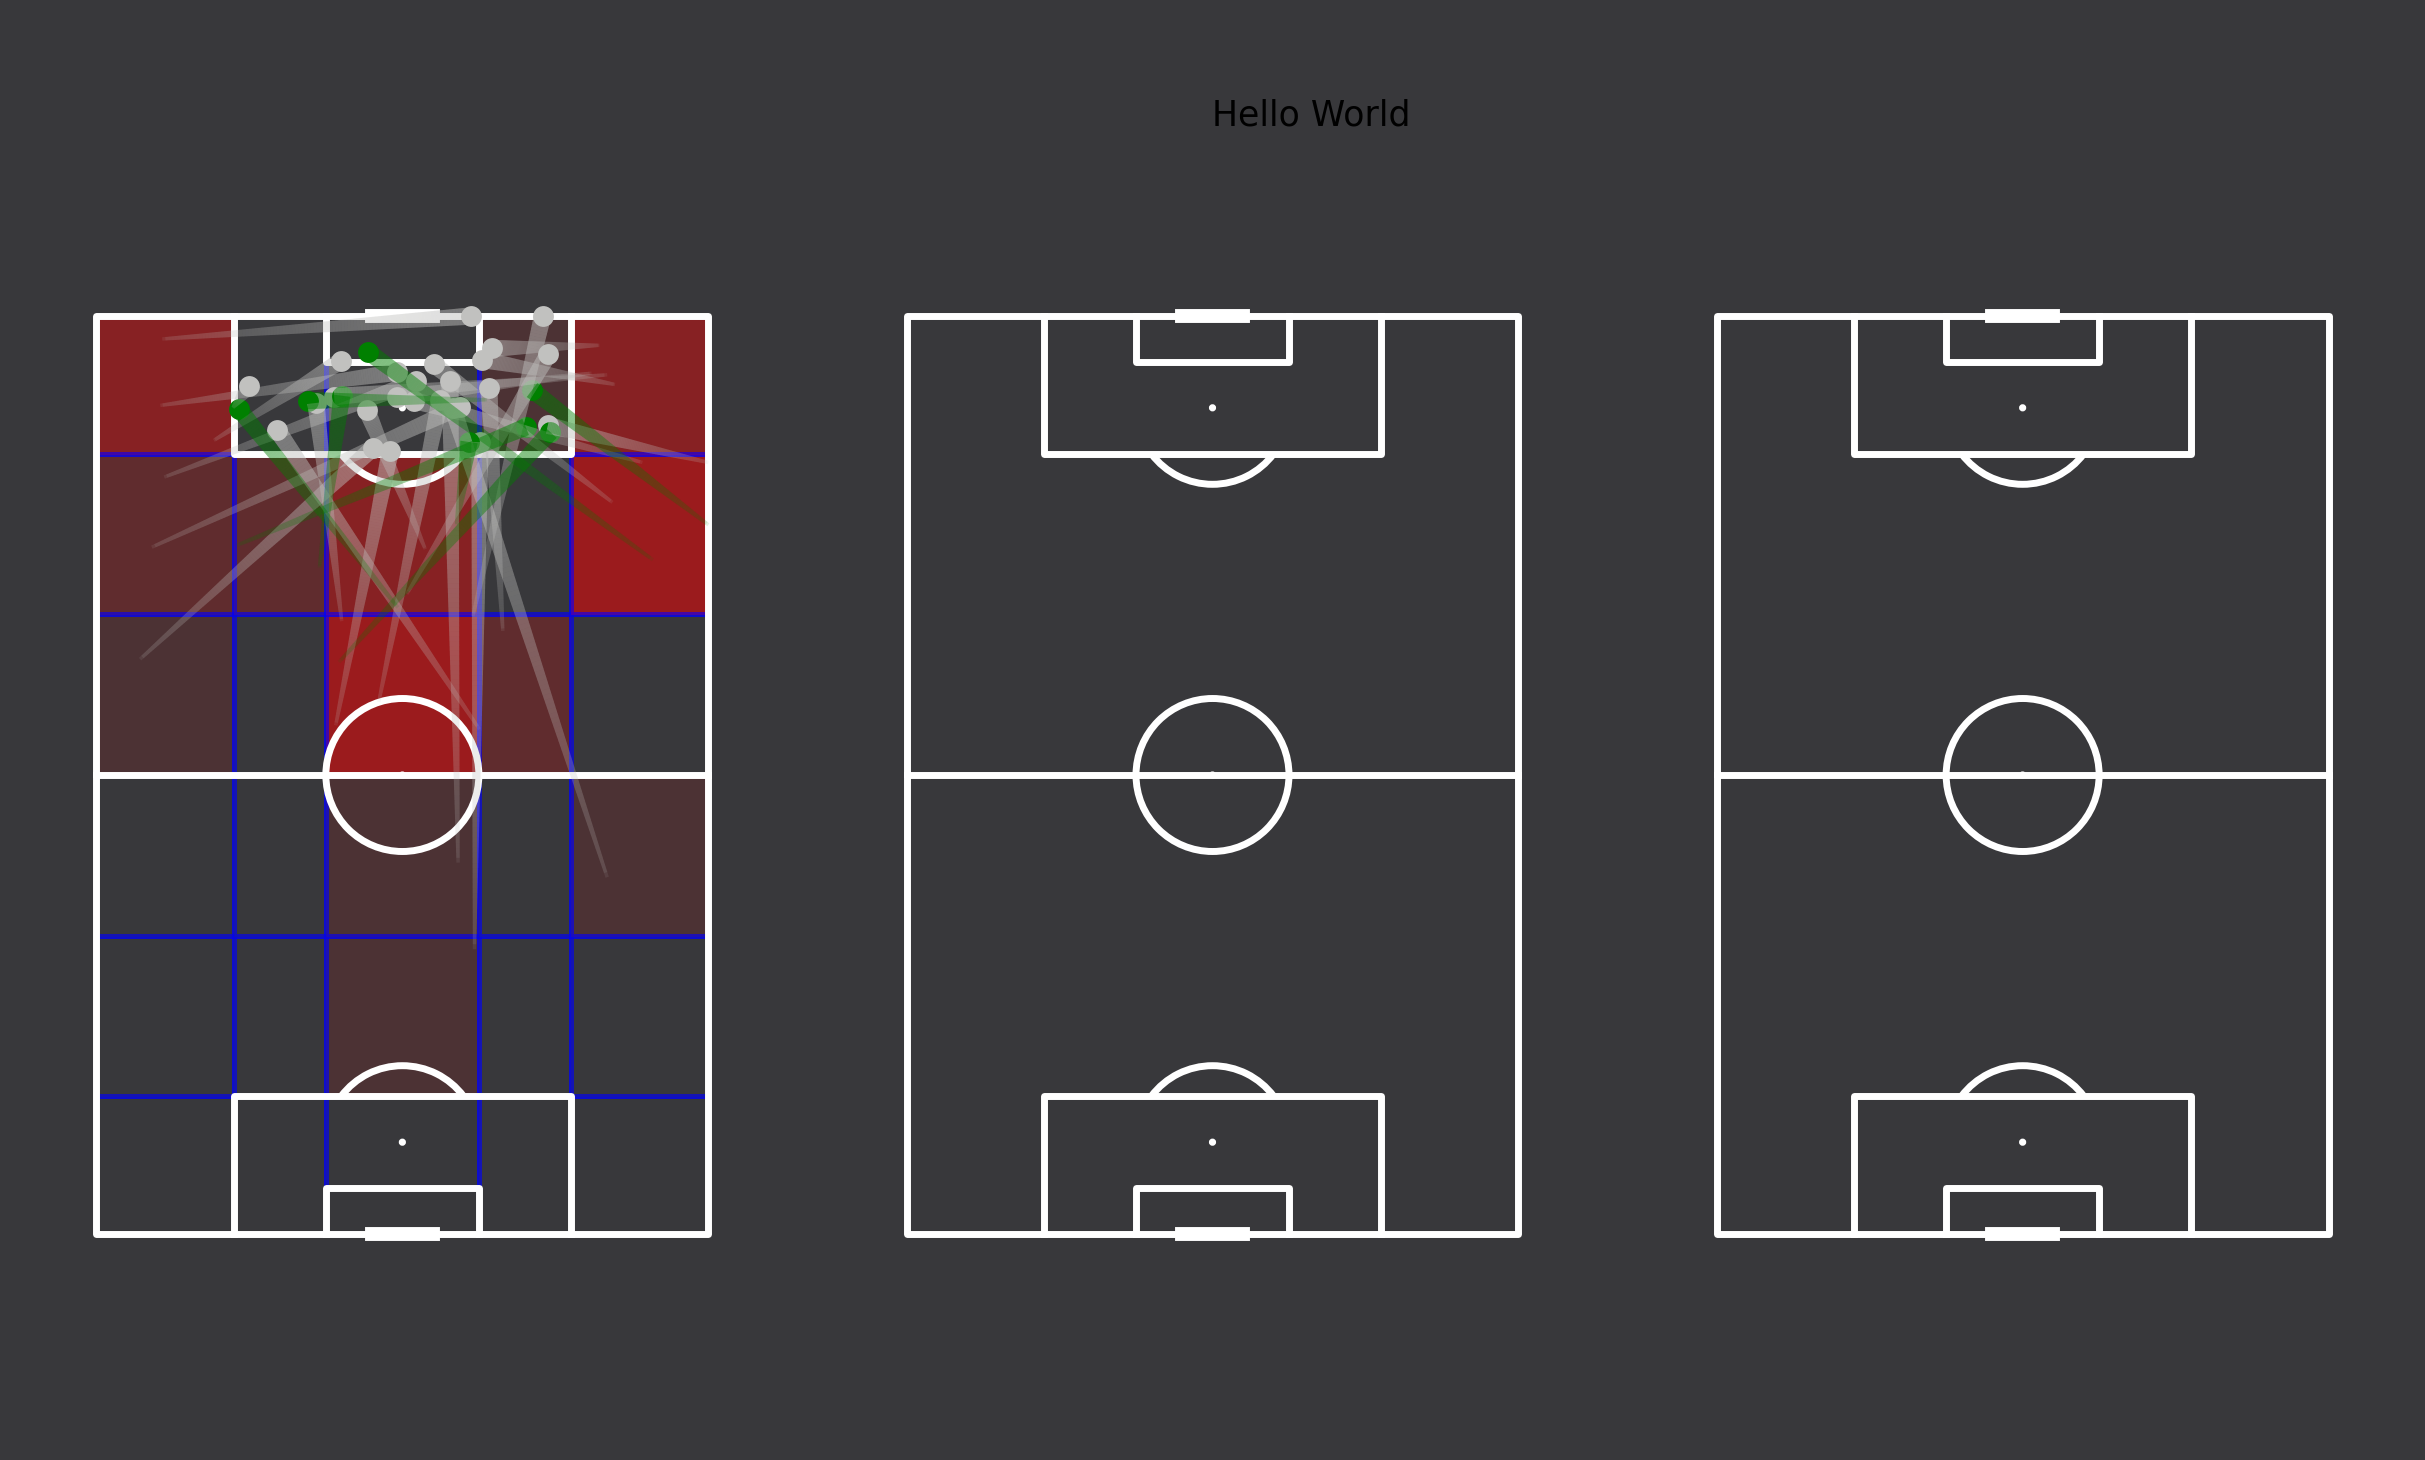
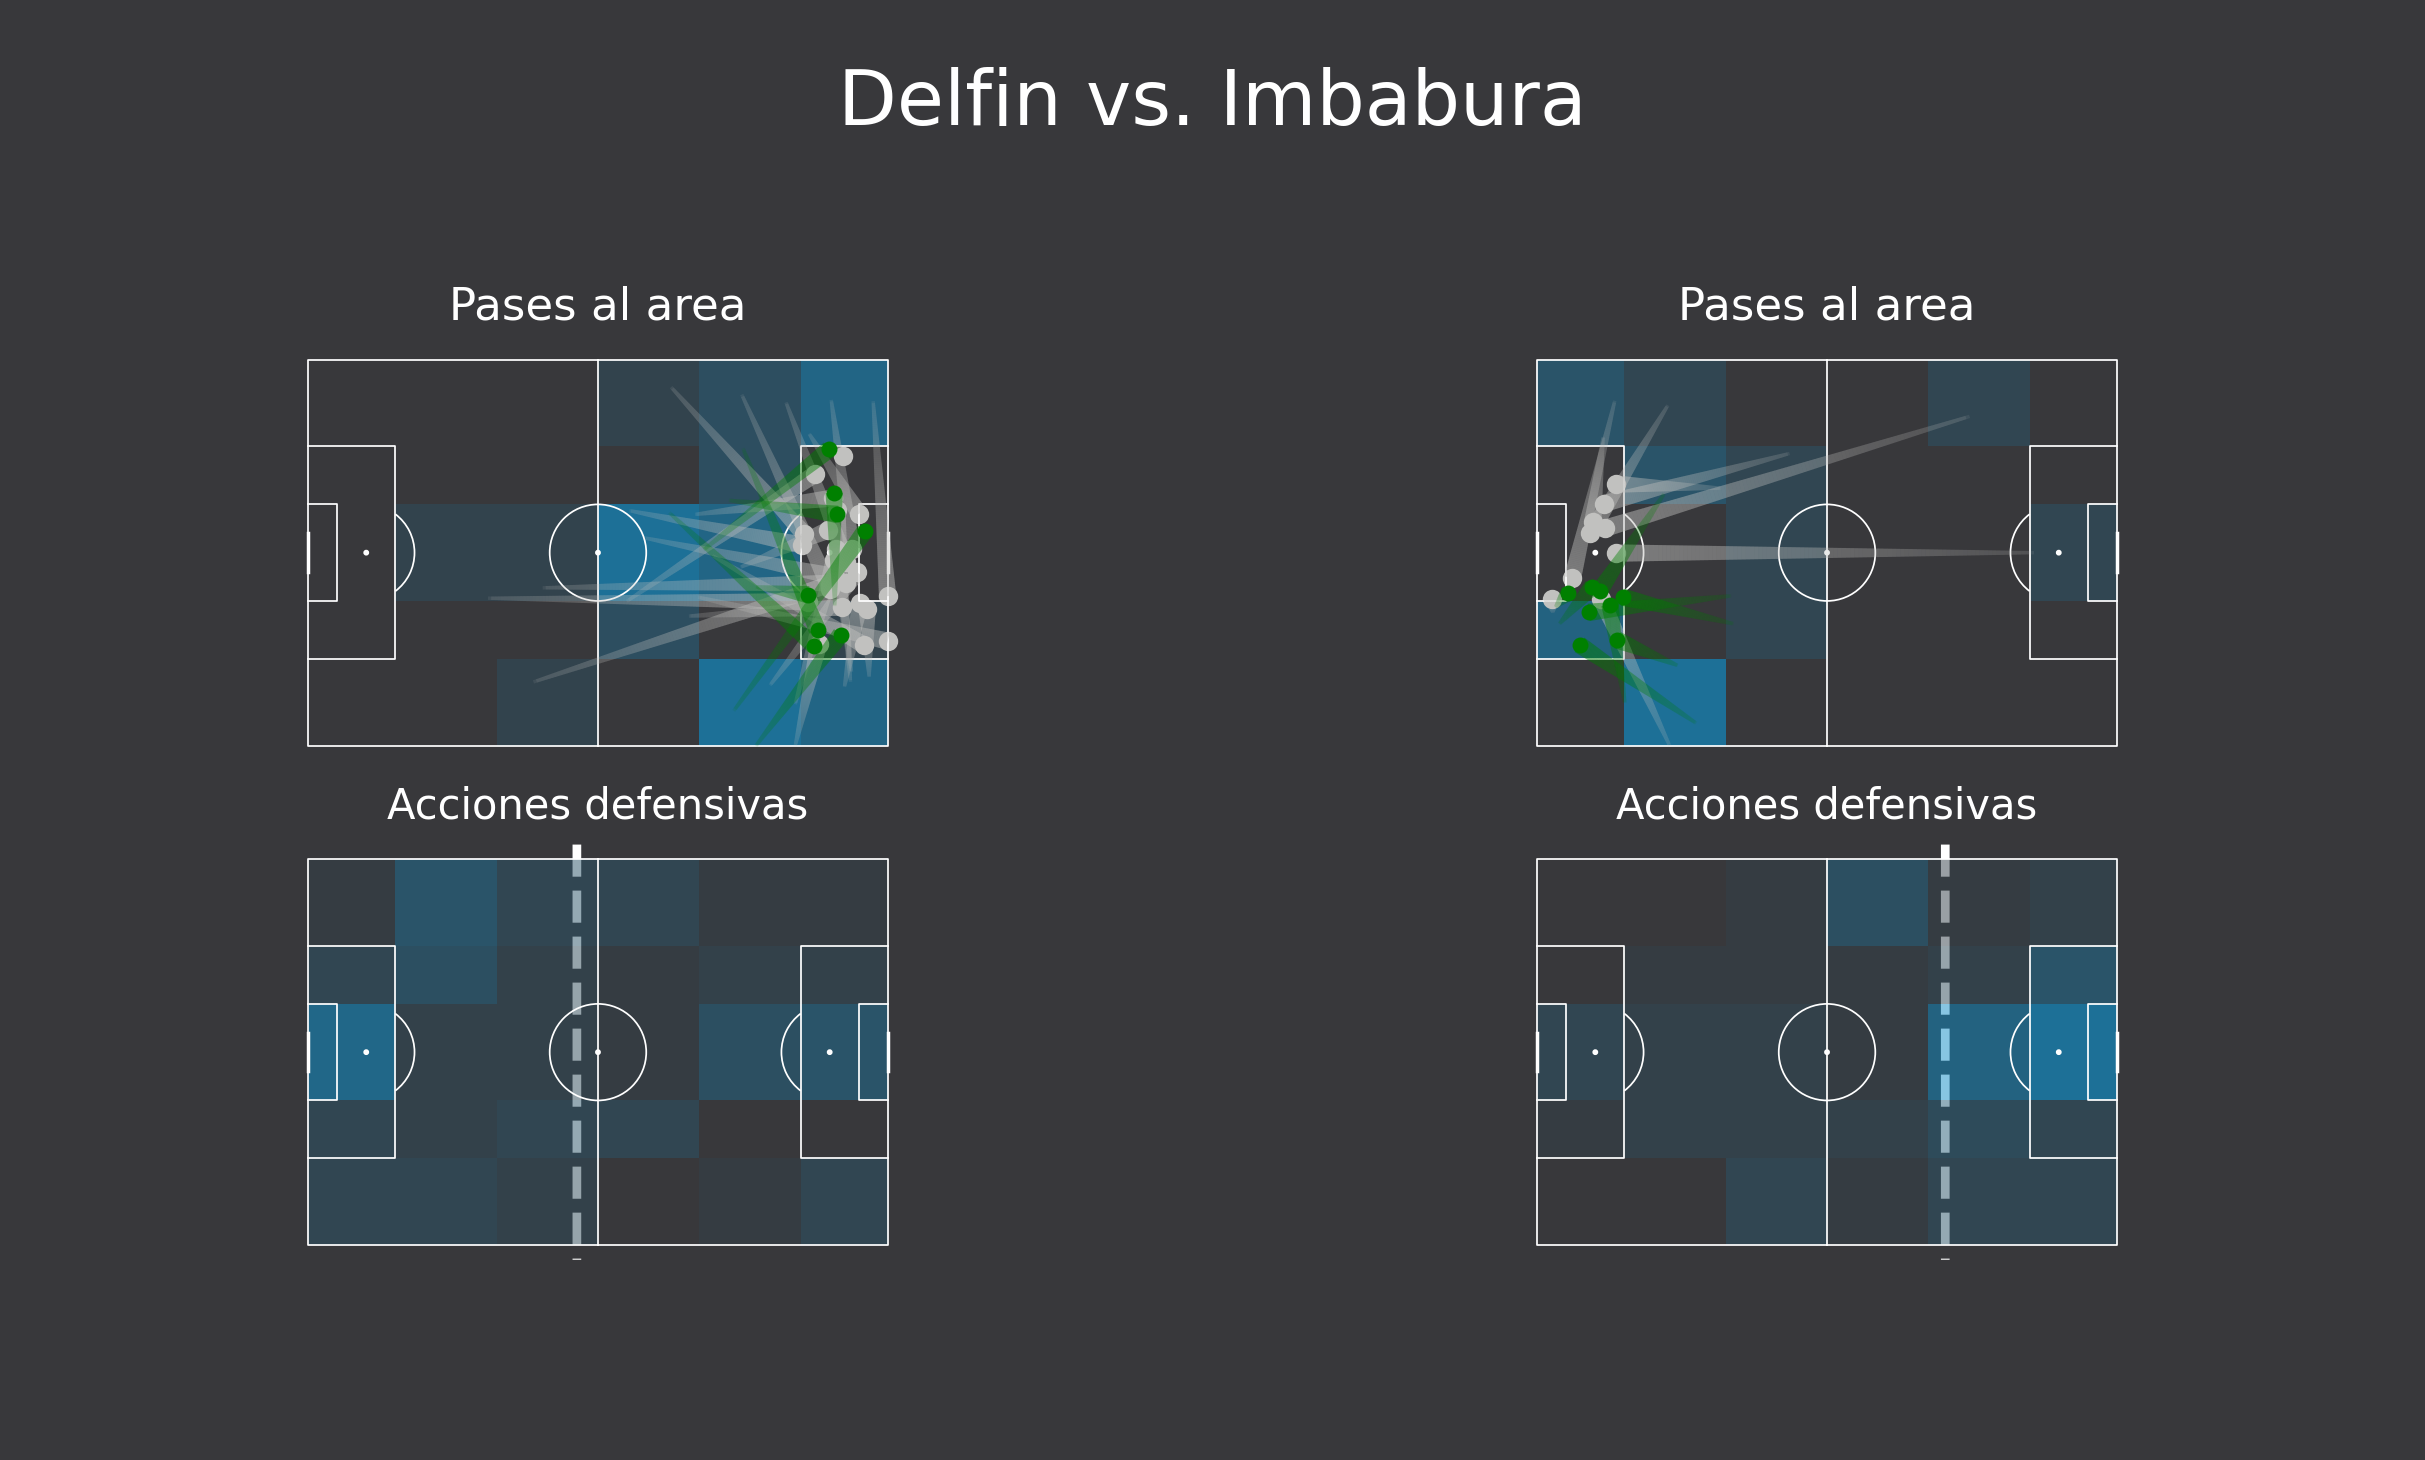
added defensive actions heatmap, reordered pitches and edited visuals

diff --git a/20240501_LigaProMatchDashboard/match_report.py b/20240501_LigaProMatchDashboard/match_report.py
@@ -6,6 +6,7 @@ from mplsoccer import Pitch, VerticalPitch, Standardizer
 
 import matplotlib.pyplot as plt
 from matplotlib.colors import LinearSegmentedColormap
+from matplotlib import rcParams
 
 
 
@@ -123,10 +124,16 @@ def filter_passes_to_box(df: pd.DataFrame, team: str):
     return pdf
     
 
-def add_box_passes(pitch, ax, df):
+def add_box_passes(pitch: Pitch, ax: plt.axis, df, flip):
   
     standard = Standardizer(pitch_from='opta', pitch_to='statsbomb')
-
+    ax.set_title("Pases al area",
+                 c="white",
+                 fontsize=13
+                 )
+    
+    size = rcParams['lines.markersize'] ** 1.7
+    
     ### FAILED PASSES
     color = '#c1c1bf'
     failed = df['outcome'] == 0
@@ -134,6 +141,10 @@ def add_box_passes(pitch, ax, df):
     x, y = standard.transform(df['x'][failed], df['y'][failed])
     xend, yend = standard.transform(df["Pass End X"][failed], df["Pass End Y"][failed])
 
+    if flip:
+        x, y = pitch.flip_side(x, y, [True]*len(x))
+        xend, yend = pitch.flip_side(xend, yend, [True]*len(xend))
+    
     ev1 = pitch.lines(
         xstart=x,
         ystart=y,
@@ -145,9 +156,12 @@ def add_box_passes(pitch, ax, df):
         ax=ax,
         alpha_start=0.1,
         alpha_end=0.3,
+        zorder=1
                 )
-
-    ev2 = pitch.scatter(x=xend, y=yend, ax=ax,linewidth=0, color='#c1c1bf')
+    
+    ev2 = pitch.scatter(x=xend, y=yend,
+                        s=size,
+                        ax=ax,linewidth=1, color='#c1c1bf', zorder=0)
 
     ### SUCCESSFULL PASSES
     color = "green"
@@ -156,6 +170,10 @@ def add_box_passes(pitch, ax, df):
     x, y = standard.transform(df['x'][success], df['y'][success])
     xend, yend = standard.transform(df["Pass End X"][success], df["Pass End Y"][success])
 
+    if flip:
+        x, y = pitch.flip_side(x, y, [True]*len(x))
+        xend, yend = pitch.flip_side(xend, yend, [True]*len(xend))
+    
     ev1 = pitch.lines(
         xstart=x,
         ystart=y,
@@ -167,12 +185,16 @@ def add_box_passes(pitch, ax, df):
         ax=ax,
         alpha_start=0.1,
         alpha_end=0.3,
+        zorder=2
                 )
 
-    ev2 = pitch.scatter(x=xend, y=yend, ax=ax,linewidth=0, color=color)
+    ev2 = pitch.scatter(x=xend, y=yend,
+                        s=size,
+                        zorder=2,
+                        ax=ax,linewidth=0, color=color)
 
 
-def add_box_heatmap(pitch, ax, df):
+def add_box_heatmap(pitch, ax, df, flip):
 
     standard = Standardizer(pitch_from='opta', pitch_to='statsbomb')
 
@@ -196,6 +218,9 @@ def add_box_heatmap(pitch, ax, df):
 
     # Transform values
     xstart, ystart = standard.transform(df['x'], df['y'])
+    
+    if flip:
+        xstart, ystart = pitch.flip_side(xstart, ystart, [True]*len(xstart))
 
     # Count passes per zone
     bin_statistic = pitch.bin_statistic(xstart, ystart,
@@ -207,7 +232,7 @@ def add_box_heatmap(pitch, ax, df):
     # clist = custom_cmap(event1_marker_color1)
     # Original hand-picked colors
     clist = ['#FFF1DB', '#FFE9CE', '#de9314', '#99610F']
-    clist = ["#38383b", "red"]
+    clist = [bg_color, "#03A9F4"]
 
     # Custom color map
     ccmap = LinearSegmentedColormap.from_list("custom", clist)
@@ -218,13 +243,131 @@ def add_box_heatmap(pitch, ax, df):
                     ax=ax,
                     cmap=ccmap,
                     # edgecolor='#03191E',
-                    edgecolor='blue',
+                    # edgecolor='blue',
                     alpha=0.5,
                     zorder=0,
                     linestyle=(0, (5,10))
                         )
 
 
+def add_def_actions(df, pitch: Pitch, axs: list, c: str):
+    """_summary_
+
+    Args:
+        df (_type_): _description_
+        pitch (_type_): _description_
+        axs (list): _description_
+    """
+    
+    standard = Standardizer(pitch_from="opta", pitch_to="statsbomb")
+
+    # BINS FOR HEATMAP
+    bin_x = np.sort(np.array([pitch.dim.left,
+                                pitch.dim.penalty_area_left,
+                                pitch.dim.penalty_area_left + 21,
+                                pitch.dim.length/2,
+                                pitch.dim.length/2 + 21,
+                                pitch.dim.penalty_area_right,
+                                pitch.dim.right
+                                ]))
+
+    bin_y = np.sort(np.array([pitch.dim.bottom,
+                                pitch.dim.penalty_area_bottom,
+                                pitch.dim.six_yard_bottom,
+                                pitch.dim.six_yard_top,
+                                pitch.dim.penalty_area_top,
+                                pitch.dim.top
+                                ]))
+    max = 0
+    
+    stat = [
+        "Interception"
+        "Ball recovery",
+        "Clearance",
+        "Foul",
+        "Aerial",
+        "Tackle",
+        "Challenge",
+        "Offside provoked"
+        ]
+    
+    for i, team in enumerate(df.team.unique()):
+        ax = axs[i]
+        ax.set_title(
+            label="Acciones defensivas",
+            c="white"
+                     )
+        
+        #Data
+        pdf = df[df["team"] == team]
+        pdf = pdf[pdf["event"] == "Clearance"]
+        
+        # Transform values
+        x, y = standard.transform(pdf.x, pdf.y)
+
+        # Get max events per zone
+        new_max = pitch.bin_statistic(x, y, statistic='count', bins=(bin_x, bin_y))["statistic"].max()
+        max = new_max if new_max > max else max
+    
+    # Loop for drawing on pitch
+    for i, team in enumerate(df.team.unique()):
+        flip = False if i==0 else True
+        ax = axs[i]
+        #Data
+        pdf = df[df["team"] == team]
+        pdf = pdf[pdf["event"].isin(stat)]
+        # Transform values
+        x, y = standard.transform(pdf['x'], pdf['y'])
+        
+        if flip:
+            x, y = pitch.flip_side(x, y, [True] * len(x))
+
+        # Count events per zone
+        bin_statistic = pitch.bin_statistic(x, y,
+                                                statistic='count',
+                                                bins=(bin_x, bin_y)
+                                                )
+        
+        clist = [bg_color,  "#03A9F4"]
+        # Custom color map
+        ccmap = LinearSegmentedColormap.from_list("custom", clist)
+
+        # Plot heatmap
+
+        pitch.heatmap(bin_statistic,
+                        ax=ax,
+                        cmap=ccmap,
+                        # edgecolor='#03191E',
+                        alpha=0.5,
+                        zorder=0,
+                        # linestyle=(0, (5,10)),
+                        vmax=max,
+                        shading="auto"
+                            )
+    
+        # Add average defensive action line
+        pdf = df[df["team"] == team]
+        pdf = pdf[pdf["event"].isin(stat)]
+        
+        x, y = standard.transform(pdf.x, pdf.y)
+        if i > 0:
+            x, y = pitch.flip_side(x, y, [True]*len(x))
+
+        d = np.sqrt(np.power(x - 0, 2) + np.power(y - 40, 2)).mean()
+
+        pitch.lines(
+            xstart=d,
+            ystart=-3,
+            xend=d,
+            yend=83,
+            ax=ax,
+            color='white',
+            linestyles='dashed',
+            alpha=1,
+            linewidth=2.5,
+            clip_on=False,
+            zorder=-1,
+        )
 
 if __name__ == "__main__":
     
@@ -236,7 +379,7 @@ if __name__ == "__main__":
     df = read_data(fp, get_qualifiers())
     
     # Draw the pitch
-    pitch = VerticalPitch(line_color='white')
+    pitch = Pitch(line_color='white', linewidth=0.5)
     
     # Show the plot
     fig = plt.figure(layout='constrained', figsize=(9.5, 4))
@@ -247,27 +390,44 @@ if __name__ == "__main__":
     ax_annotate = fig.add_axes([0, -0.16, 1, 0.125], anchor='NW', zorder=1)
     ax_annotate.axis('off')
 
-    subfigs = fig.subfigures(1, 3, wspace=0.07, width_ratios=[1, 1, 1])
+    subfigs = fig.subfigures(1, 2, wspace=0.07, width_ratios=[1, 1])
 
-    axsLeft = subfigs[0].subplots(1, 1)
-    axsMiddle = subfigs[1].subplots(1, 1)
-    axsRight = subfigs[2].subplots(1, 1)
+    ax1, ax3 = subfigs[0].subplots(2, 1) #1st team are odd axes
+    ax2, ax4 = subfigs[1].subplots(2, 1) #2nd team are even axes
     
-    ax_title.text(x=0.5, y=0.5, s="Hello World")
+    axs = {df.team.unique()[0]: [ax1, ax3],
+           df.team.unique()[1]: [ax2, ax4]}
     
-    pitch.draw(ax=axsLeft)
-    pitch.draw(ax=axsMiddle)
-    pitch.draw(ax=axsRight)
+    teams = df.team.unique()
+    ax_title.text(x=0.5, y=0.5,
+                  s=f"{teams[0]} vs. {teams[1]}",
+                  c="white",
+                  ha="center",
+                  fontsize=22
+                  )
+    
+    # Draw pitches on all the empty axes
+    pitch.draw(ax=ax1)
+    pitch.draw(ax=ax2)
+    pitch.draw(ax=ax3)
+    pitch.draw(ax=ax4)
 
-    axsLeft.set_facecolor(bg_color)
-    axsMiddle.set_facecolor(bg_color)
-    axsRight.set_facecolor(bg_color)
+    # Change axes background color
+    ax1.set_facecolor(bg_color)
+    ax2.set_facecolor(bg_color)
+    ax3.set_facecolor(bg_color)
+    ax4.set_facecolor(bg_color)
     
-    # Passes to box
-    pdf = filter_passes_to_box(df=df, team=team)
-    add_box_passes(pitch=pitch, ax=axsLeft, df=pdf)
-    add_box_heatmap(pitch=pitch, ax=axsLeft, df=pdf)
+    # Add Passes to box
+    for i, team in enumerate(df.team.unique()):
+        ax = axs[team]
+        flip = False if i==0 else True
+        pdf = filter_passes_to_box(df=df, team=team)
+        add_box_heatmap(pitch=pitch, ax=ax[0], df=pdf, flip=flip)
+        add_box_passes(pitch=pitch, ax=ax[0], df=pdf, flip=flip)
+        
     
+    add_def_actions(df=df, pitch=pitch, axs=[ax3, ax4], c=bg_color)
     
     
     # ------------------------------- Save fig
